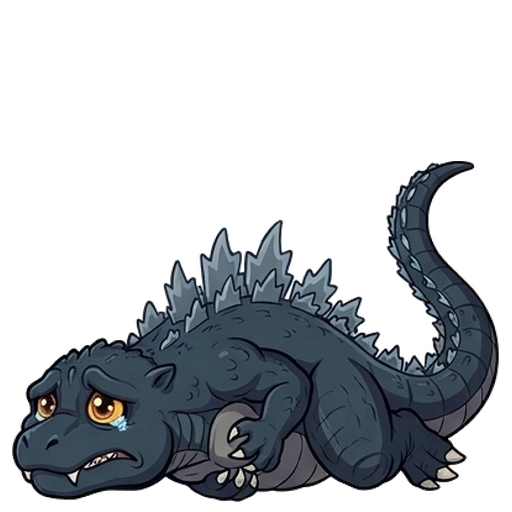
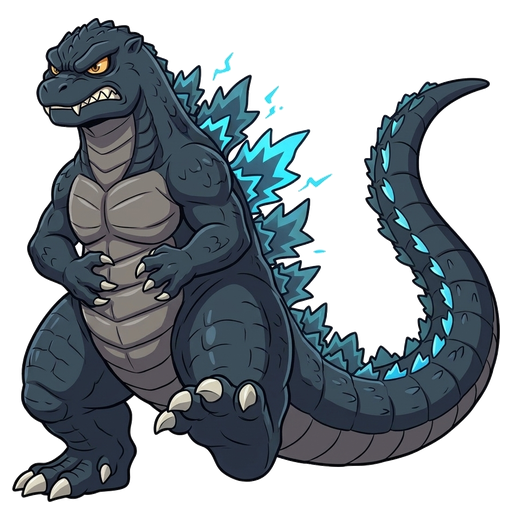
Release v1.4.0: Monster Hunter Acorn Palico 30-frame skin + colossal 2.85x non-crying Godzilla

diff --git a/web/index.html b/web/index.html
@@ -370,13 +370,13 @@
         <div class="tab-pane" id="tab-system">
           <div class="sub-card">
             <div class="field-head">
-              <div class="sub-card-title">软件自动更新 <span id="updateVerChip" class="status-chip">v1.3.0</span></div>
+              <div class="sub-card-title">软件自动更新 <span id="updateVerChip" class="status-chip">v1.4.0</span></div>
               <a id="updateRepoLink" href="https://github.com/tjcisyourdady-gif/YuiDesk/releases" target="_blank" class="link-btn">官方发布页</a>
             </div>
             <p class="field-hint">
               自动从官方 GitHub 仓库检测更新（国内自动并发测速挑选最快加速镜像 + 多节点分片提速），下载包必须通过强制 SHA-256 完整性校验与路径安全检查后才可安装，且不会改动你的聊天记录和登录状态。
             </p>
-            <div id="updateStatusText" style="font-size:12px;color:var(--text);">当前版本：v1.3.0</div>
+            <div id="updateStatusText" style="font-size:12px;color:var(--text);">当前版本：v1.4.0</div>
             <div id="updateNotesBox" class="update-notes-box hidden"></div>
             <div id="updateProgressWrap" class="update-progress-wrap hidden">
               <div id="updateProgressBar" class="update-progress-bar"></div>

diff --git a/web/app.js b/web/app.js
@@ -1,6 +1,6 @@
 (() => {
   const state = {
-    appVersion: "1.3.0",
+    appVersion: "1.4.0",
     repoUrl: "https://github.com/tjcisyourdady-gif/YuiDesk",
     settings: {},
     providers: [],

diff --git a/app/desktop/pet_window.py b/app/desktop/pet_window.py
@@ -351,8 +351,15 @@ class PetWindow(QWidget):
     def _pet_box_size(self) -> int:
         scale_pct = max(70, min(160, int(self._settings.get("pet_scale", 100))))
         size_mult = float(self._skin.get("size_multiplier") or 1.0)
-        size_mult = max(0.6, min(2.4, size_mult))
-        return int(176 * scale_pct / 100 * size_mult)
+        size_mult = max(0.6, min(3.8, size_mult))
+        raw = int(176 * scale_pct / 100 * size_mult)
+        # 防止超巨型角色在小屏/高 DPI 下超出屏幕可视高度，最高占屏幕有效高度的 78%
+        screen = QApplication.primaryScreen()
+        if screen:
+            avail = screen.availableGeometry()
+            max_box = max(240, int(avail.height() * 0.78) - 94)
+            raw = min(raw, max_box)
+        return raw
 
     def apply_settings(self, settings: dict[str, Any]) -> None:
         old_top = bool(self._settings.get("pet_always_on_top", False))
@@ -399,8 +406,12 @@ class PetWindow(QWidget):
         if not screen:
             return
         avail = screen.availableGeometry()
-        x = avail.right() - self.width() - 60
-        y = avail.top() + int(avail.height() * 0.22)
+        x = avail.right() - self.width() - 36
+        # 超巨型角色（如哥斯拉）稳稳立在桌面右下角地面上方，更有巨兽镇场感
+        if float(self._skin.get("size_multiplier") or 1.0) >= 2.0:
+            y = max(avail.top() + 12, avail.bottom() - self.height() - 12)
+        else:
+            y = avail.top() + int(avail.height() * 0.22)
         self.move(x, y)
 
     def set_hungry_flag(self, is_hungry: bool) -> None:
@@ -482,7 +493,8 @@ class PetWindow(QWidget):
         if state == "file_catch":
             return assets.get("file_catch") or assets.get("happy") or assets.get("idle", "")
         if state == "idle":
-            if self._is_hungry and assets.get("hungry"):
+            # 饿肚子时仅在待机轮播里偶尔展示 grumpy 提醒，不再永久覆盖霸气默认待机姿势
+            if self._idle_submode == "hungry" and assets.get("hungry"):
                 return assets["hungry"]
             if self._idle_submode == "guitar" and assets.get("practice_guitar"):
                 return assets["practice_guitar"]
@@ -654,20 +666,21 @@ class PetWindow(QWidget):
         if (
             self._settings.get("pet_auto_walk", True)
             and self._edge_side is None
-            and not self._is_hungry
             and roll < 0.22
         ):
             self._start_stroll()
             return
-        if roll < 0.36:
+        if self._is_hungry and roll < 0.34:
+            self._idle_submode = "hungry"
+        elif roll < 0.44:
             self._idle_submode = "sit_swing"
-        elif roll < 0.50:
+        elif roll < 0.56:
             self._idle_submode = "music_dance"
-        elif roll < 0.64:
+        elif roll < 0.68:
             self._idle_submode = "guitar"
-        elif roll < 0.76:
+        elif roll < 0.78:
             self._idle_submode = "tea"
-        elif roll < 0.85:
+        elif roll < 0.86:
             self._idle_submode = "stretch"
         elif roll < 0.92:
             self._idle_submode = "study"

diff --git a/app/database.py b/app/database.py
@@ -25,7 +25,7 @@ DEFAULT_SETTINGS: dict[str, Any] = {
     "permission_level": "standard",  # readonly | standard | full
     "kimi_cli_path": "",
     "active_persona_id": "assistant",
-    "active_skin_id": "godzilla",
+    "active_skin_id": "palico",
     "theme": "light",
     "web_search_enabled": False,
     "thinking_enabled": False,
@@ -167,17 +167,17 @@ class Database:
                     "ON CONFLICT(key) DO UPDATE SET value = 'true'"
                 )
 
-            # v1.3.0 一次性迁移：自动为既有用户切换至全新巨型哥斯拉皮肤（随时可在右键菜单切回小狐狸/轻音少女）
-            mig_gz = conn.execute(
-                "SELECT value FROM settings WHERE key = '_migrated_godzilla_skin_v130'"
+            # v1.4.0 一次性迁移：自动为既有用户切换至全新怪物猎人·橡子艾露猫皮肤（随时可在右键菜单切回巨型哥斯拉/小狐狸/轻音少女）
+            mig_palico = conn.execute(
+                "SELECT value FROM settings WHERE key = '_migrated_palico_skin_v140'"
             ).fetchone()
-            if not mig_gz:
+            if not mig_palico:
                 conn.execute(
-                    "INSERT INTO settings (key, value) VALUES ('active_skin_id', '\"godzilla\"') "
-                    "ON CONFLICT(key) DO UPDATE SET value = '\"godzilla\"'"
+                    "INSERT INTO settings (key, value) VALUES ('active_skin_id', '\"palico\"') "
+                    "ON CONFLICT(key) DO UPDATE SET value = '\"palico\"'"
                 )
                 conn.execute(
-                    "INSERT INTO settings (key, value) VALUES ('_migrated_godzilla_skin_v130', 'true') "
+                    "INSERT INTO settings (key, value) VALUES ('_migrated_palico_skin_v140', 'true') "
                     "ON CONFLICT(key) DO UPDATE SET value = 'true'"
                 )
 

diff --git a/app/desktop/chat_window.py b/app/desktop/chat_window.py
@@ -93,14 +93,23 @@ class ChatWindow(QWidget):
         h = self._dialog_height
         self.resize(w, h)
 
-        # 若桌宠下方空间不足，向上微移桌宠确保对话框紧贴在桌宠正下方
-        if avail.bottom() - pet_geo.bottom() < h + 10:
-            new_pet_y = max(avail.top() + 8, avail.bottom() - h - pet_geo.height() - 10)
-            self._anchor_pet.move(pet_geo.x(), new_pet_y)
-            pet_geo = self._anchor_pet.frameGeometry()
-
-        tx = pet_geo.center().x() - w // 2
-        ty = pet_geo.bottom() + 2
+        # 若桌宠本身是巨型体型（如哥斯拉）导致「桌宠+对话框」竖向放不下，则优雅停靠在桌宠身旁（优先左侧）
+        if pet_geo.height() + h + 16 > avail.height():
+            if pet_geo.left() - avail.left() >= w + 12:
+                tx = pet_geo.left() - w - 6
+            elif avail.right() - pet_geo.right() >= w + 12:
+                tx = pet_geo.right() + 6
+            else:
+                tx = avail.left() + 12
+            ty = pet_geo.bottom() - h
+        else:
+            # 常规尺寸桌宠：紧贴在桌宠正下方，下方空间不足时微移桌宠
+            if avail.bottom() - pet_geo.bottom() < h + 10:
+                new_pet_y = max(avail.top() + 8, avail.bottom() - h - pet_geo.height() - 10)
+                self._anchor_pet.move(pet_geo.x(), new_pet_y)
+                pet_geo = self._anchor_pet.frameGeometry()
+            tx = pet_geo.center().x() - w // 2
+            ty = pet_geo.bottom() + 2
         tx = max(avail.left() + 8, min(avail.right() - w - 8, tx))
         ty = max(avail.top() + 8, min(avail.bottom() - h - 8, ty))
         self.move(tx, ty)

diff --git a/app/skins.py b/app/skins.py
@@ -151,9 +151,9 @@ def list_skins() -> list[dict[str, Any]]:
                 skins[skin["id"]] = skin
 
     result = list(skins.values())
-    # 内置主角色排在前面（哥斯拉 -> 少女 -> 四足小狐狸 -> Q版站姿小狐狸 -> 模板 -> 自定义）
-    order_map = {"godzilla": 0, "default_sprite": 1, "fox_animal": 2, "little_fox": 3, "yui_template": 4}
-    result.sort(key=lambda s: (order_map.get(s["id"], 5), s["name"]))
+    # 内置主角色排在前面（艾露猫 -> 巨型哥斯拉 -> 轻音少女 -> 四足小狐狸 -> Q版小狐狸 -> 模板 -> 自定义）
+    order_map = {"palico": 0, "godzilla": 1, "default_sprite": 2, "fox_animal": 3, "little_fox": 4, "yui_template": 5}
+    result.sort(key=lambda s: (order_map.get(s["id"], 6), s["name"]))
     return result
 
 

diff --git a/app/version.py b/app/version.py
@@ -3,7 +3,7 @@
 from __future__ import annotations
 
 APP_NAME = "YuiDesk"
-APP_VERSION = "1.3.0"
+APP_VERSION = "1.4.0"
 
 # 官方发布仓库（仅从该固定仓库拉取更新元数据与安装包，不信任任意外部源）
 GITHUB_OWNER = "tjcisyourdady-gif"
